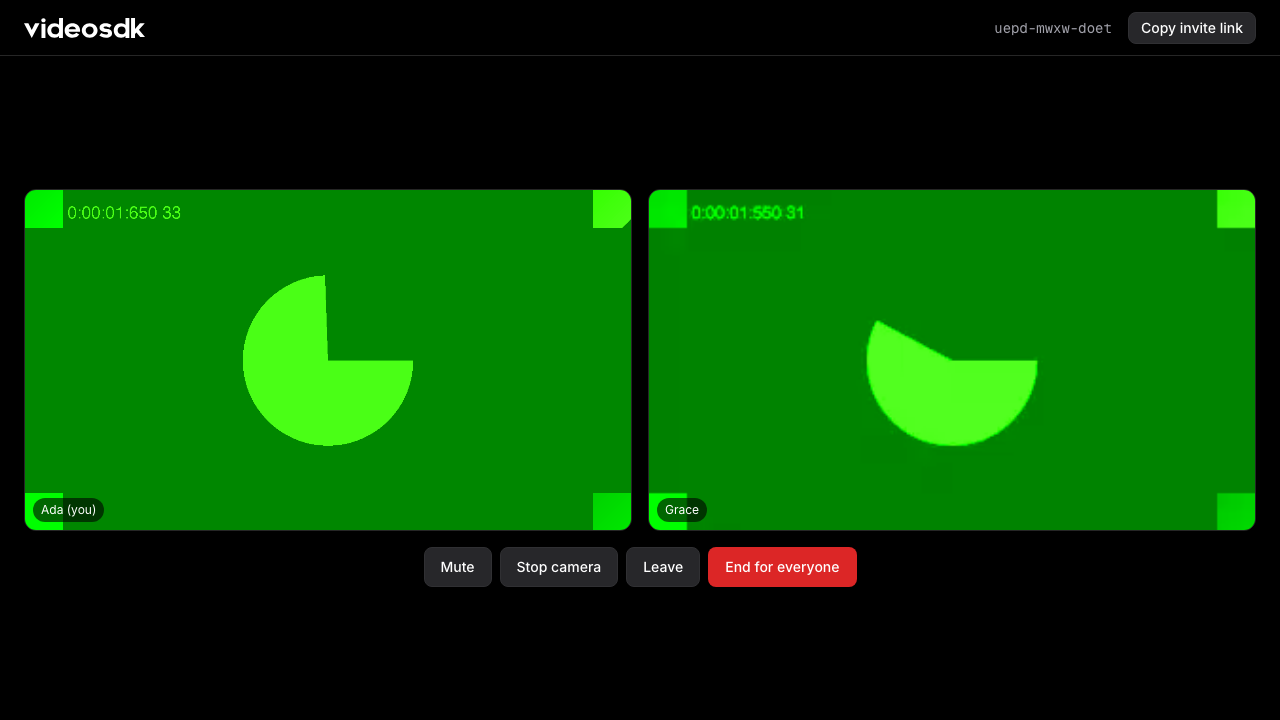
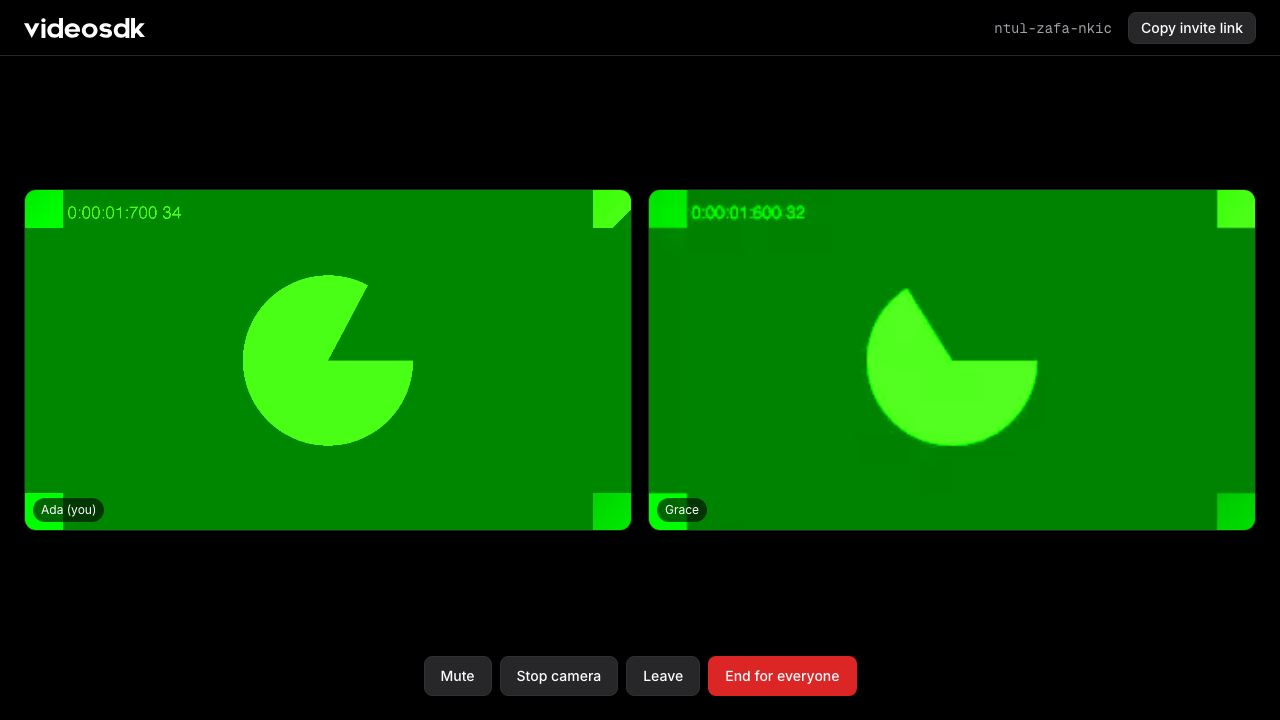
fix: keep call controls on screen with one participant
Bind the page to the viewport and cap each 16:9 tile at the height
above the controls. A grid too big to fit scrolls inside itself.

diff --git a/public/styles.css b/public/styles.css
@@ -2,7 +2,7 @@
 
 body {
   margin: 0;
-  min-height: 100vh;
+  height: 100dvh;
   display: flex;
   flex-direction: column;
   font-family: var(--font-sans);
@@ -29,6 +29,8 @@ h1, p, figure { margin: 0; }
 
 main {
   flex: 1;
+  min-height: 0;
+  overflow: auto;
   display: flex;
   align-items: center;
   justify-content: center;
@@ -82,16 +84,22 @@ input {
 .btn-danger { color: var(--neutral-0); background: var(--red-600); }
 .btn-danger:hover { background: var(--red-700); }
 
-#call { width: 100%; height: 100%; display: flex; flex-direction: column; gap: var(--space-8); }
+#call { width: 100%; align-self: stretch; display: flex; flex-direction: column; gap: var(--space-8); }
 .grid {
   flex: 1;
+  min-height: 0;
+  container-type: size;
+  overflow-y: auto;
   display: grid;
   grid-template-columns: repeat(auto-fit, minmax(280px, 1fr));
-  align-content: center;
+  align-content: safe center;
   gap: var(--space-8);
 }
 .tile {
   position: relative;
+  width: 100%;
+  max-width: calc(100cqh * 16 / 9); /* never taller than the space above the controls */
+  justify-self: center;
   aspect-ratio: 16 / 9;
   overflow: hidden;
   background: var(--surface-card);

diff --git a/docs/DECISIONS.md b/docs/DECISIONS.md
@@ -121,6 +121,9 @@ await videosdk.rooms.end(roomId);        // disables the room for good
    `meeting.participants` on `meeting-joined` (idempotent), removed on `participant-left`. Media is
    attached on `stream-enabled` / `stream-disabled`. The local participant's audio is never played.
    A tile with no video shows the name's initial.
+   The page is bound to the viewport: a tile is 16:9 and never taller than the space above the
+   controls, so the controls stay on screen with one participant or many. A grid too big to fit
+   scrolls inside itself.
 5. Controls: mic (`muteMic` / `unmuteMic`), camera (`disableWebcam` / `enableWebcam`), Leave
    (`meeting.leave()`, only you leave), and End for everyone (host only, calls our server).
 6. On `meeting-left`, code 1009 shows "The host ended this call for everyone." and drops the stored
